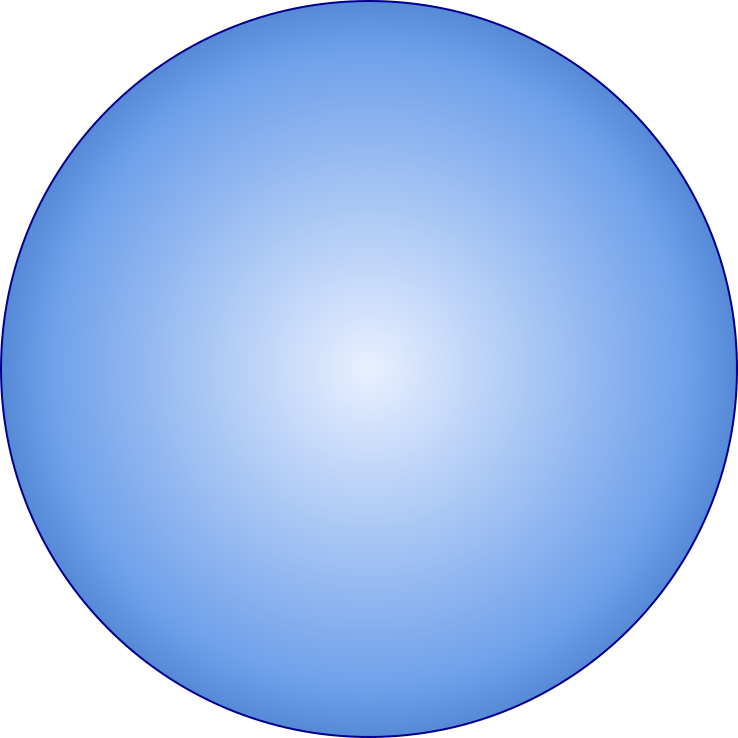
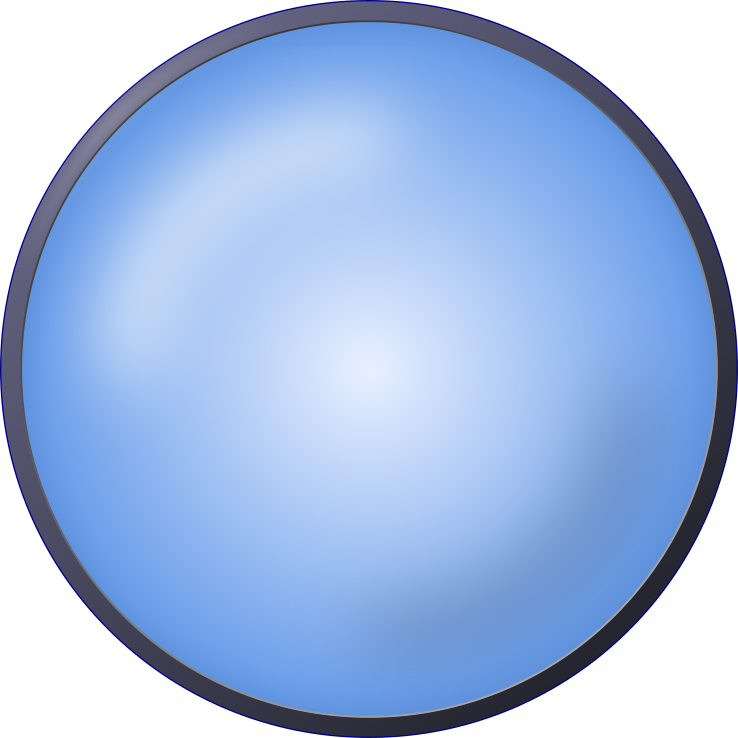
デザインコミット

Changed region(s): [[0.0, 0.0, 1.0, 1.0], [0.0935, 0.1247, 0.5298, 0.5298], [0.561, 0.5921, 0.8726, 0.8726]]

diff --git a/www/css/index.css b/www/css/index.css
@@ -5,13 +5,21 @@ html, body{
     margin: 0px;
 }
 
+#label{
+    position:absolute;
+    top:10%;
+    width:100%;
+    text-align: center;
+    color: #FFFFFF;
+    z-index: 999;
+}
+
 #background{
     width: 100%;
     position: absolute;
-   /* background: url("../img/back.jpg");
-    background-size:cover;
-    -webkit-filter: blur(20px);
-    height:100%;*/
+    background: url("../img/back2.png");
+    height:100%;
+    background-color: #2b2b2b;
 }
 
 #radar_body{

diff --git a/www/index.html b/www/index.html
@@ -10,6 +10,9 @@
         <title>Hello World</title>
     </head>
     <body>
+        <div id = "label">
+            検索中...
+        </div>
         <div id="background">
             
         </div>
